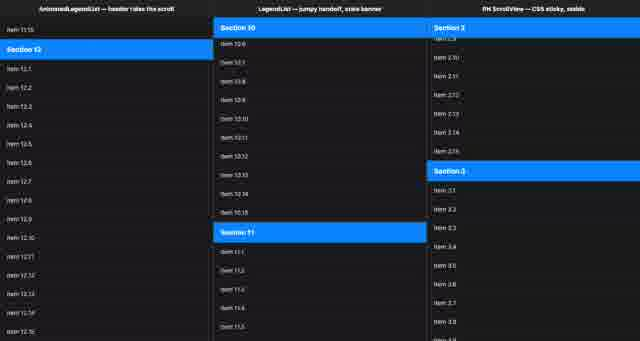
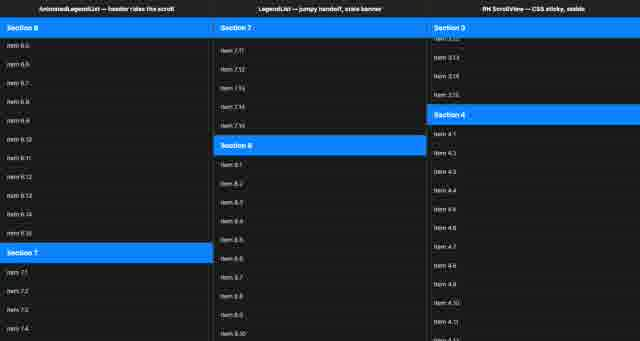
Faithful captures: header rides mid-scroll / re-pins at rest (clean-cache build); fix docs accordingly

diff --git a/README.md b/README.md
@@ -5,7 +5,7 @@ Three-column comparison of sticky section headers on **web**, same data
 
 | Column | Component | Web behavior |
 |---|---|---|
-| LEFT | `AnimatedLegendList` (`@legendapp/list/reanimated`) | **Headers don't pin at all** — they ride along with the scroll like normal rows (with periodic snap-back corrections when JS re-renders). |
+| LEFT | `AnimatedLegendList` (`@legendapp/list/reanimated`) | Pins correctly **at rest**, but **during scroll the pinned header rides along with the content** (up-and-down motion, tracking the scroll) and only snaps back into place when the JS thread catches up / scrolling settles. |
 | MIDDLE | `LegendList` (`@legendapp/list/react-native`) | Pins via CSS `position:sticky` on the *active* header, but the handoff is JS-driven: jumpy transitions, stale pinned banner, stacked banners under load. |
 | RIGHT | plain RN `ScrollView` + `stickyHeaderIndices` (react-native-web = in-flow CSS `position:sticky`) | Control: compositor-driven, pixel-stable at any scroll speed. |
 
@@ -34,8 +34,11 @@ return { transform: [{ translateY: position + delta }] };
 
 On native this worklet runs on the UI thread and pins exactly. On web
 reanimated has no UI thread — browsers scroll on the compositor thread, so the
-JS-applied transform is permanently behind the visual scroll: the header
-scrolls away with the content instead of pinning.
+JS-applied transform is always one-or-more frames behind the visual scroll:
+during scroll the header visually rides with the content by however much the
+JS thread is behind, then snaps back once JS catches up. The gap scales with
+scroll speed and JS load (under heavy load the whole virtualized window can
+starve and the column blanks).
 
 **Plain `LegendList`** (`react-native.web.mjs`, `PositionViewSticky`): a sticky
 container is CSS `position: sticky` only while it is the **active** sticky
@@ -51,15 +54,17 @@ but of course it isn't virtualized.
 
 ## Artifacts (`artifacts/`)
 
-Captured with Playwright + CDP `Emulation.setCPUThrottlingRate(4)`, flinging
+Captured with Playwright + CDP `Emulation.setCPUThrottlingRate(2)`, flinging
 each column in turn (script: `scripts/capture-video.mjs`):
 
-- `three-columns-4x-throttle.{webm,mp4}` — full run (left, then middle, then
+- `three-columns-2x-throttle.{webm,mp4}` — full run (left, then middle, then
   right column flung).
-- `frame-animated-header-not-pinned.jpg` — LEFT mid-fling: `Item 2.11/2.12`
-  at the very top, **no header pinned anywhere**.
-- `frame-plain-double-banner.jpg` — MIDDLE mid-fling: `Section 2` and
-  `Section 3` banners visible simultaneously near the top (broken handoff);
-  LEFT settled with `Item 11.15` above the in-flow `Section 12` header.
+- `frame-animated-header-rides-midscroll.jpg` — LEFT mid-fling: `Item
+  5.13–5.15` at the very top and `Section 6`'s header **riding in-flow
+  mid-column instead of being pinned**.
+- `frame-animated-repinned-at-rest-plus-plain-double-banner.jpg` — LEFT
+  settled: `Section 6` correctly re-pinned (the failure is scroll-time only);
+  MIDDLE mid-fling: `Section 1` and `Section 2` banners stacked (broken
+  handoff).
 - `frame-control-stable-mid-fling.jpg` — RIGHT mid-fling: pinned banner +
   in-flow next section, flawless.

diff --git a/ISSUE.md b/ISSUE.md
@@ -1,6 +1,6 @@
 # Draft GitHub issue for legendapp/list
 
-> Title: **Web: sticky headers broken — `AnimatedLegendList` headers don't pin at all; plain `LegendList` handoff drifts/stacks under fast scroll**
+> Title: **Web: sticky headers lag — `AnimatedLegendList` header rides the scroll instead of staying pinned; plain `LegendList` handoff drifts/stacks under fast scroll**
 
 ## Environment
 
@@ -13,10 +13,12 @@
 
 Two related problems with `stickyHeaderIndices` on **web**:
 
-1. **`AnimatedLegendList` (`@legendapp/list/reanimated`): headers don't pin at
-   all.** They scroll away with the content like normal rows (in a real app
-   with re-renders they periodically snap back, producing an up-and-down
-   "riding" motion during scroll). Visible at 1× CPU on any fling.
+1. **`AnimatedLegendList` (`@legendapp/list/reanimated`): the pinned header
+   rides the scroll.** It pins correctly at rest, but during scrolling it
+   visibly moves up and down with the content — by however much the JS thread
+   is behind the compositor scroll — then snaps back into place when scrolling
+   settles. Visible at 1× CPU on any fast fling; worse under load (under heavy
+   throttle the whole virtualized window starves and the column blanks).
 2. **Plain `LegendList`: pinning works but the handoff is unstable.** During a
    fast fling the pinned banner can go stale (banner says "Section 5" over
    Section 6 rows), transitions jump instead of pushing off, and two banners
@@ -31,8 +33,8 @@ same conditions.
 Minimal three-column repro (AnimatedLegendList / LegendList / ScrollView, same
 data and rows): **<link to repro repo>** — `npm install && npx expo start
 --web`, fling each column. Video + frame captures in `artifacts/` (recorded at
-4× CPU throttle to make the plain-list handoff deterministic on camera; the
-AnimatedLegendList failure needs no throttle).
+2× CPU throttle to make both failures deterministic on camera; the
+AnimatedLegendList riding is visible at 1× on a fast fling).
 
 ## Mechanism (from reading the shipped bundles)
 
@@ -48,8 +50,9 @@ return { transform: [{ translateY: resolvedPosition }] };
 
 On native the worklet runs on the UI thread → exact. On web there is no UI
 thread and browsers scroll on the **compositor** thread, so the JS-applied
-transform is permanently behind the visual scroll — the header effectively
-never pins.
+transform is always one-or-more frames behind the visual scroll — during
+scrolling the header visually travels with the content by exactly the JS lag,
+snapping back when JS catches up.
 
 **RN-Animated engine** (plain list, web build `PositionViewSticky`): the active
 sticky container becomes CSS `position: sticky`, everything else stays